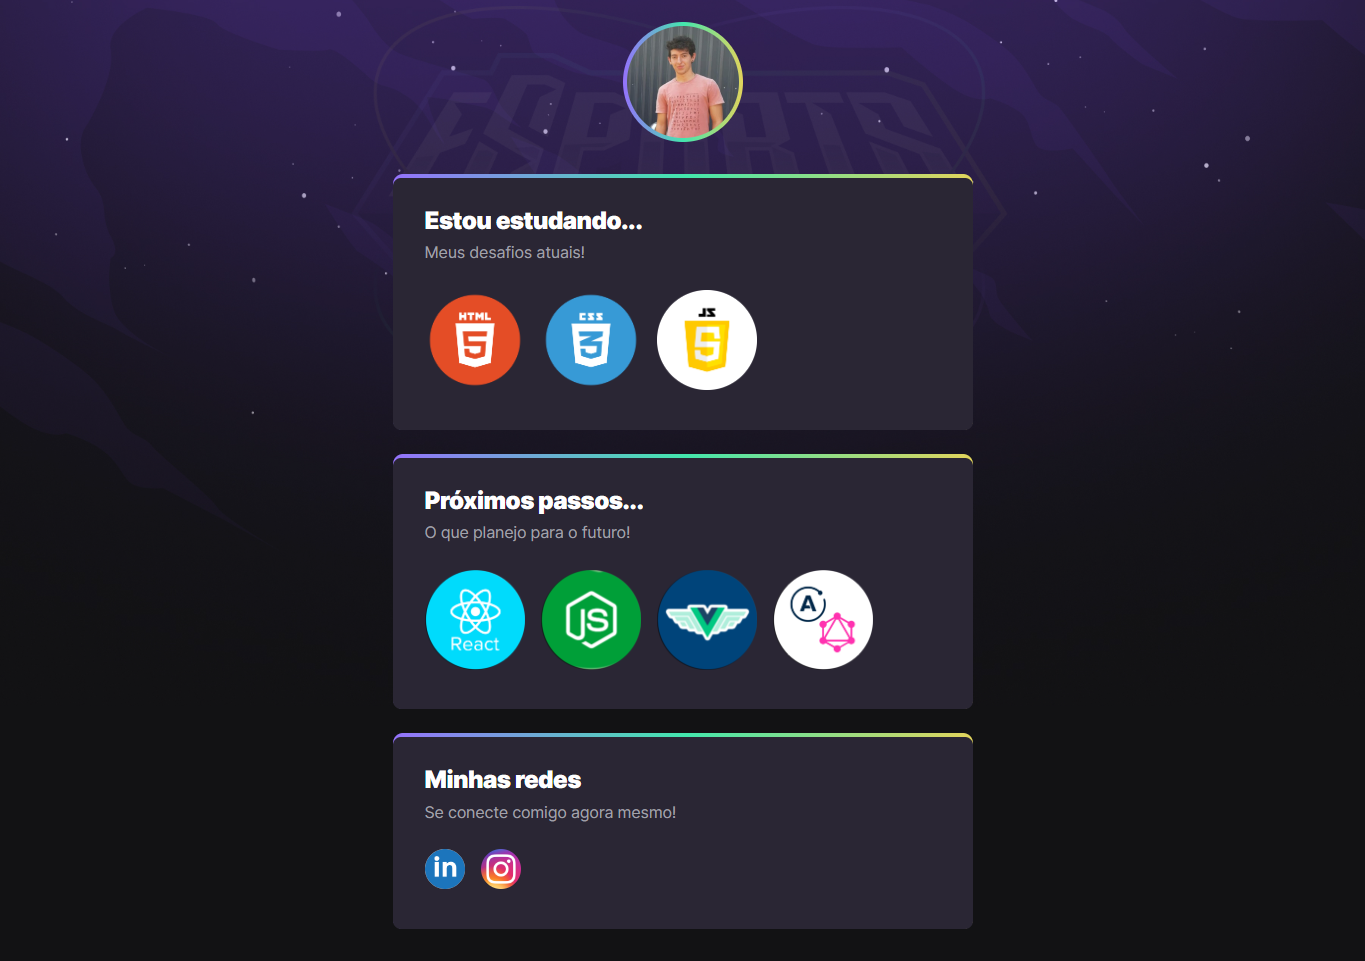
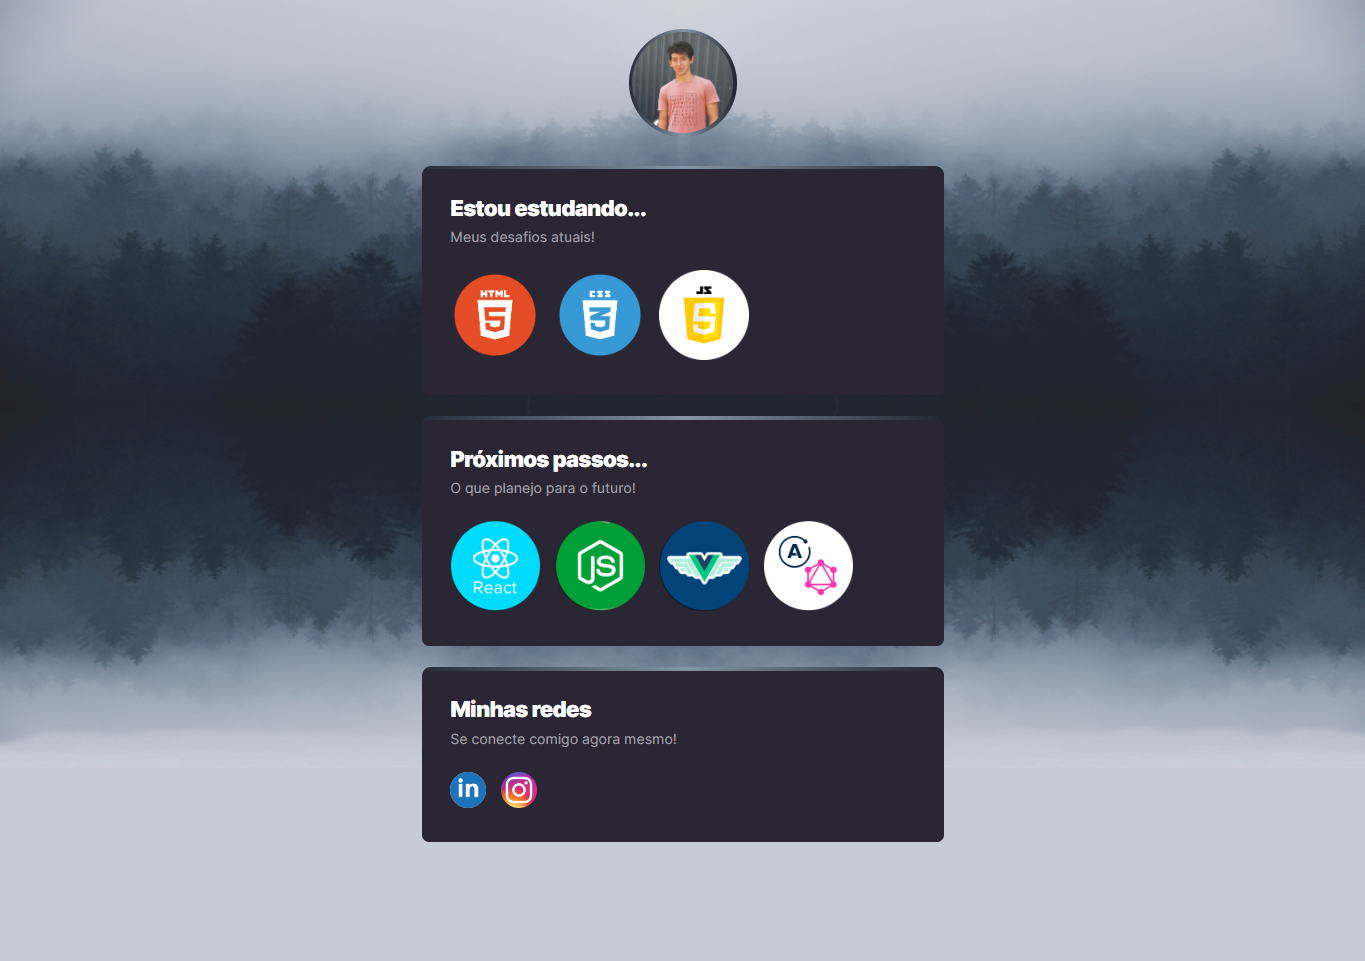
finalização

diff --git a/styles.css b/styles.css
@@ -9,11 +9,11 @@ ul {
 }
 
 body {
-    background-image: url(./Assets/BG.jpg);
+    background-image: url(./Assets/BG.png);
     background-position:top center;
     background-size: 100% auto;
     background-repeat: no-repeat;
-    background-color: #121214;
+    background-color: #c5ccd6;
 }
 
 body * {
@@ -31,7 +31,7 @@ header {
 header div {
     width: 120px;
     margin: auto;
-    background-image: linear-gradient(90deg, #9572FC 0%, #43E7AD 50.52%, #E2D45C 100%);
+    background-image: linear-gradient(90deg, #252d3a 0%, #8495a5 50.52%, #212530 100%);
     border-radius: 50%;
     display: flex;
     padding: 4px;
@@ -62,7 +62,7 @@ main {
 
 section  {
     color: white;
-    background-image: linear-gradient(90deg, #9572FC 0%, #43E7AD 50.52%, #E2D45C 100%);
+    background-image: linear-gradient(90deg, #252d3a 0%, #8495a5 50.52%, #212530 100%);
     padding-top: 4px;
     border-radius: 10px;
 }
